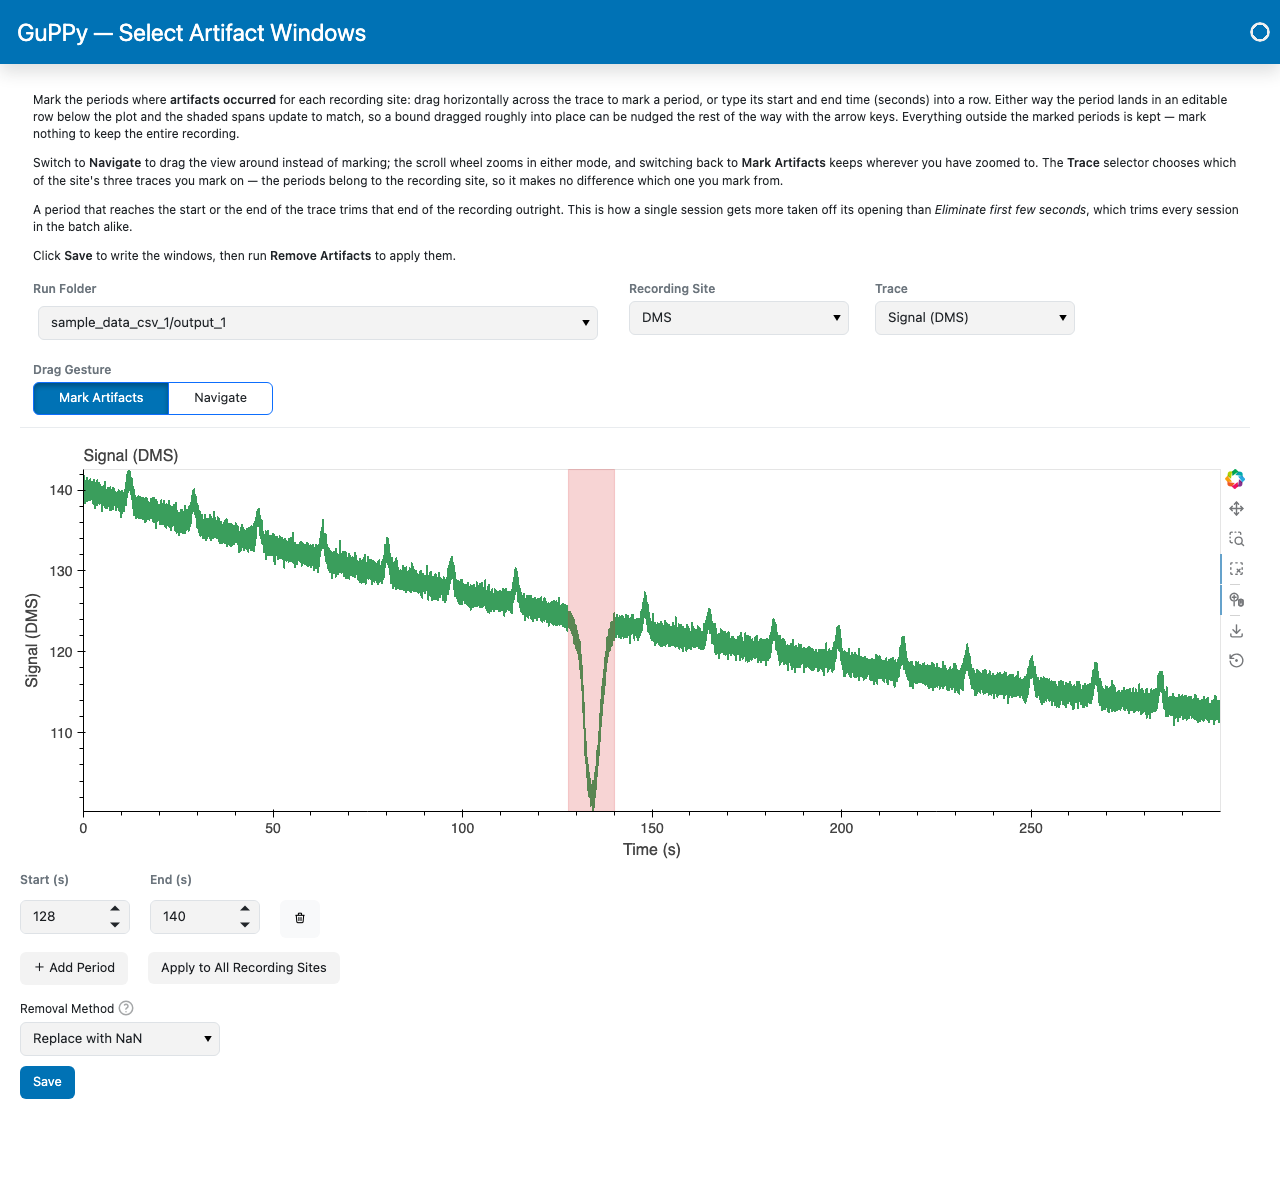
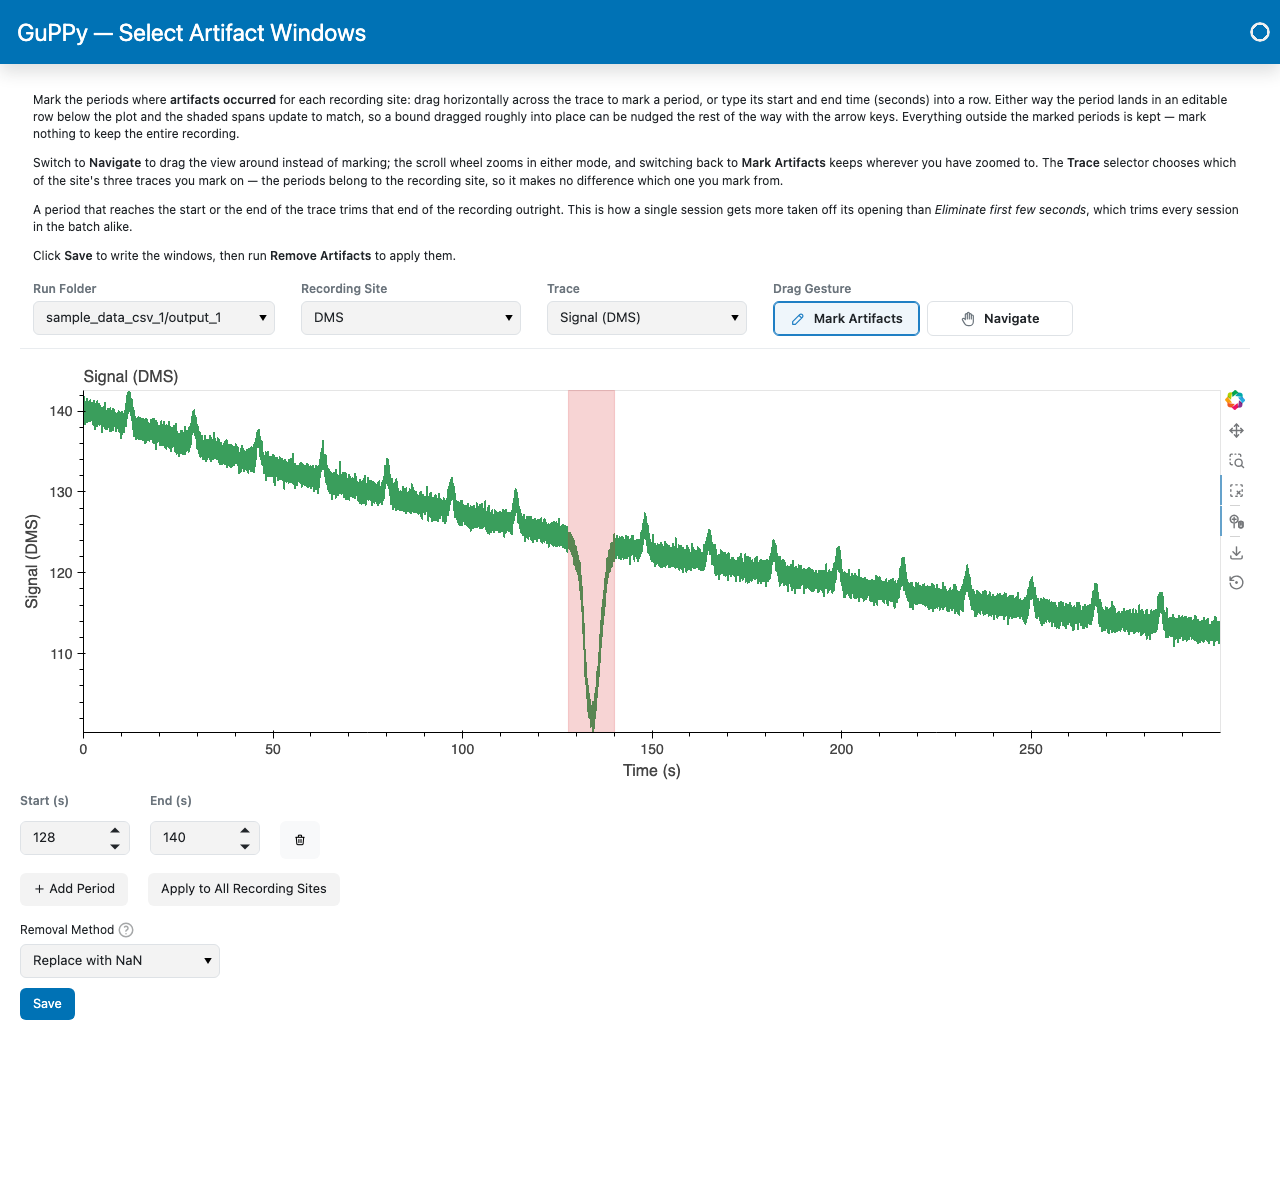
Describe the source tiles in the docs and retake the screenshots

diff --git a/docs/take_screenshots.py b/docs/take_screenshots.py
@@ -41,7 +41,7 @@ from guppy.frontend.frontend_utils import scanPortsAndFind
 from guppy.frontend.group_labeling import GroupLabelingPage
 from guppy.frontend.input_parameters import ParameterForm
 from guppy.frontend.parameterized_plotter import ParameterizedPlotter
-from guppy.frontend.plot_card import RUN_FOLDER_WIDTH, toolbar_field
+from guppy.frontend.plot_card import CONTROL_MARGIN, run_folder_width, toolbar_field
 from guppy.frontend.store_labeling_selector import StoreLabelingSelector
 from guppy.frontend.tonic_epochs import TonicEpochConfig, TonicResultsView
 from guppy.frontend.visualization_dashboard import VisualizationDashboard
@@ -83,7 +83,11 @@ DANDI_DEMO_ASSET = "sub-112-283_ses-FP-PS-2019-06-20T09-32-04_behavior.nwb"
 
 def _run_field(run_label: str) -> pn.Column:
     """The "Run Folder" toolbar field a run-folder page shows, offering the one run."""
-    return toolbar_field("Run Folder", pn.widgets.Select(options=[run_label], width=RUN_FOLDER_WIDTH))
+    return toolbar_field(
+        "Run Folder", pn.widgets.Select(
+            options=[run_label], width=run_folder_width(labels=[run_label]), margin=CONTROL_MARGIN
+        )
+    )
 
 
 def _wait_for_port(port: int, retries: int = 50, delay: float = 0.05) -> None:
@@ -805,14 +809,14 @@ def screenshot_run_name_section(page: Page, *, run_name: str, filename: str) -> 
 
 
 def screenshot_dandi_source_selection(page: Page, tmp_path: Path) -> None:
-    """How-to: the Data Source toggle set to DANDI Archive, and the DANDI panel it reveals.
+    """How-to: the DANDI Archive tile selected, and the DANDI panel it reveals below it.
 
     Assigning ``source_mode`` fires its param watcher synchronously, which swaps the DANDI
     panel in and runs its opening search, so the catalog is populated before the template is
     served (mirroring screenshot_label_stores_configured).
 
-    The roots are pre-selected so Root Folder Selection folds away, which keeps the
-    toggle and the panel it drives in one shot rather than a card's height apart.
+    The roots are pre-selected so Root Folder Selection folds away, which brings the
+    Input Folder Selection card, tiles and panel, to the top of the shot.
     """
     template = build_homepage(
         input_root_folder=str(SAMPLE_DATA_DIR.parent),

diff --git a/docs/reference/parameters.md b/docs/reference/parameters.md
@@ -1,22 +1,8 @@
 # Input parameter reference
 
-Every parameter the GuPPy GUI exposes, organized to match what you see on screen. The page mirrors the homepage top to bottom: the **Data Source** toggle above the cards, then the five cards (**Root Folder Selection**, **Input Folder Selection**, **Output Folder Selection**, **Parameter Selection**, **Group Output Folder Selection**) and the titled sections inside each card. The GUI answers what a single parameter does, through the **?** beside each control; this page is where they are documented together, in relation to each other and in more detail. Each row gives the parameter as it appears in the GUI, a one-line description of what it does, the data type, the default value, and the accepted values or range. Prose paragraphs underneath cover the parameters that need more than a single line. If this is your first time using GuPPy, follow the [Your First Analysis](../tutorials/first_analysis.md) tutorial instead.
+Every parameter the GuPPy GUI exposes, organized to match what you see on screen. The page mirrors the homepage top to bottom: the five cards (**Root Folder Selection**, **Input Folder Selection**, **Output Folder Selection**, **Parameter Selection**, **Group Output Folder Selection**) and the titled sections inside each card. The GUI answers what a single parameter does, through the **?** beside each control; this page is where they are documented together, in relation to each other and in more detail. Each row gives the parameter as it appears in the GUI, a one-line description of what it does, the data type, the default value, and the accepted values or range. Prose paragraphs underneath cover the parameters that need more than a single line. If this is your first time using GuPPy, follow the [Your First Analysis](../tutorials/first_analysis.md) tutorial instead.
 
 The pipeline-step numbering used in this page matches the steps in [Your First Analysis](../tutorials/first_analysis.md): Step 2 (Load the raw data), Step 3 (Preprocess the signal), Step 4 (Compute the PSTH), Step 5 (Visualize the results).
-
----
-
-## Data Source
-
-The toggle above the cards. Decides where the sessions come from.
-
-*Used by: Step 1 (Label Stores) and Step 2 (Load the raw data).*
-
-| Parameter | Description | Type | Default | Options / range |
-|-----------|-------------|------|---------|-----------------|
-| Data Source | Local-folder mode vs DANDI streaming. | radio | `Local folder` | `Local folder`, `DANDI Archive` |
-
-**Data Source** picks between selecting local session folders from the file browser (the common case) and streaming NWB sessions directly from DANDI. It sits above the cards because it changes what two of them show: the session-folder browser is replaced by the DANDI browser, and Root Folder Selection drops the input root folder a streamed session has no use for. See [Analyze data streamed from the DANDI Archive](../how-to/analyze-dandi-data.md) for the DANDI workflow.
 
 ---
 
@@ -40,7 +26,7 @@ Both roots rarely change between analyses, so GuPPy remembers them between launc
 
 **Output root folder is the same as the input root folder** points both roots at one folder, which makes each session mirror onto itself: its run folders are created inside the session folder, so the session travels as one self-contained directory. It also means GuPPy writes into your raw data, which is why it is off by default. Ticking it hides the output-root browser, since there is nothing left to choose.
 
-In DANDI mode the input root folder and the checkbox are hidden, and only the output root folder is asked for: a streamed session has no local raw data to sit under, so its session folder is created inside the output root folder instead.
+Only local sessions use the input root folder. A session streamed from DANDI has no local raw data to sit under, so its session folder is created inside the output root folder instead, or inside the input root folder when the two are set to match.
 
 ---
 
@@ -52,9 +38,12 @@ The second card on the homepage, open by default. Selects the session data the p
 
 | Parameter | Description | Type | Default | Options / range |
 |-----------|-------------|------|---------|-----------------|
+| Data Source | Local-folder mode vs DANDI streaming. | radio | `Local Folder` | `Local Folder`, `DANDI Archive` |
 | (session folders browser) | Session folders to analyze. | list of paths | empty | absolute paths to session directories under the input root folder |
 | (DANDI selector) | DANDI assets to materialize as sessions. | dict | `None` (local mode) | per-session mapping of `dandi://` URIs |
 | Combine Data? | Concatenate two split files into one trace. | bool | `False` | `True`, `False` |
+
+**Data Source** is the pair of tiles at the top of the card. It picks between selecting local session folders from the file browser (the common case) and streaming NWB sessions directly from DANDI, and swaps the card's browser to match. See [Analyze data streamed from the DANDI Archive](../how-to/analyze-dandi-data.md) for the DANDI workflow.
 
 **Session folders** holds the list of session folder paths the pipeline will analyze. Multiple folders are allowed for batch runs, and they do not have to sit side by side: sessions kept in different sub-directories of the input root folder can be analyzed together in a single run, and their differing depths carry straight through into the output tree.
 
@@ -328,7 +317,7 @@ The table is sorted alphabetically by internal name. Each row links to the secti
 | `highAmpFilt` | HAFT | [Transient Detection](#transient-detection) |
 | `input_root_folder` | (input root folder browser) | [Root Folder Selection](#root-folder-selection) |
 | `isosbestic_control` | Isosbestic Control Channel? | [Control Channel Fitting](#control-channel-fitting) |
-| `mode` | Data Source | [Data Source](#data-source) |
+| `mode` | Data Source | [Input Folder Selection](#input-folder-selection) |
 | `moving_window` | Moving Window for Transient Detection (s) | [Transient Detection](#transient-detection) |
 | `nSecPost` | Seconds After 0 | [PSTH Computation](#psth-computation) |
 | `nSecPrev` | Seconds Before 0 | [PSTH Computation](#psth-computation) |

diff --git a/docs/tutorials/first_analysis.md b/docs/tutorials/first_analysis.md
@@ -47,7 +47,7 @@ guppy
 A browser tab opens showing the GuPPy dashboard.
 
 ```{image} ../_static/images/01_homepage.png
-:alt: The GuPPy homepage on first launch: the sidebar of pipeline steps on the left, and on the right the Data Source toggle above an open Root Folder Selection card asking for the input and output root folders
+:alt: The GuPPy homepage on first launch: the sidebar of pipeline steps on the left, and on the right an open Root Folder Selection card asking for the input and output root folders
 :align: center
 ```
 
@@ -62,11 +62,11 @@ Open the **Root Folder Selection** card at the top of the page. It holds the two
 In the **Input Folder Selection** card's **Session folders** browser, navigate to `stubbed_testing_data/csv/sample_data_csv_1/` and click **`>>`** to move that folder into the **Selected files** pane on the right. The browser supports selecting multiple session folders at once for batch analysis; for this tutorial we are running a single session. Every session you select has to sit under the input root folder.
 
 ```{image} ../_static/images/02_data_selection.png
-:alt: The GuPPy homepage with Root Folder Selection folded away and the Input Folder Selection card open below it, its Session folders browser listing sample_data_csv_1 among the sample sessions
+:alt: The GuPPy homepage with Root Folder Selection folded away and the Input Folder Selection card open below it, with the Local Folder tile selected and its Session folders browser listing sample_data_csv_1 among the sample sessions
 :align: center
 ```
 
-The **Data Source** toggle above the cards lets you switch between **Local folder** (the default, file-system browsing) and **DANDI Archive** (streaming NWB sessions directly from DANDI). We are using local files here; see [Analyze data streamed from the DANDI Archive](../how-to/analyze-dandi-data.md) for the DANDI workflow.
+The two tiles at the top of the **Input Folder Selection** card switch between **Local Folder** (the default, file-system browsing) and **DANDI Archive** (streaming NWB sessions directly from DANDI). We are using local files here; see [Analyze data streamed from the DANDI Archive](../how-to/analyze-dandi-data.md) for the DANDI workflow.
 
 ### Set parameters
 

diff --git a/docs/how-to/analyze-dandi-data.md b/docs/how-to/analyze-dandi-data.md
@@ -12,13 +12,13 @@ Streaming a public dandiset needs no DANDI API key. GuPPy reads the dandiset's
 
 ## Choosing a dandiset and assets
 
-Set **Data Source**, above the cards at the top of the page, to **DANDI Archive**. In
-**Input Folder Selection** the local file browser is replaced by the DANDI panel,
-which walks you through three screens: a list of dandisets, one dandiset's page,
+In the **Input Folder Selection** card, click the **DANDI Archive** tile at its top.
+The local file browser is replaced by the DANDI panel, which walks you through three
+screens: a list of dandisets, one dandiset's page,
 and that dandiset's files.
 
 ```{image} ../_static/images/dandi_source_selection.png
-:alt: The Data Source toggle at the top of the page switched from Local folder to DANDI Archive, with the Input Folder Selection card below it showing the DANDI source panel with its search box holding the word photometry, the filter checkbox beneath it, and a table of matching dandisets
+:alt: The Input Folder Selection card with its DANDI Archive tile selected and the DANDI source panel below it with its search box holding the word photometry, the filter checkbox beneath it, and a table of matching dandisets
 :width: 100%
 ```
 
@@ -136,9 +136,11 @@ after the asset filename minus `.nwb`, and writes that session's runs there. The
 recording itself is streamed and never downloaded, so the session folder holds only
 what the analysis writes into it.
 
-DANDI mode asks for no input root folder, and the card hides it: a streamed session
-has no local raw data to sit under. This is why the assets land in the output root —
-it keeps GuPPy from creating folders inside whatever you use for your own recordings.
+DANDI mode does not use the input root folder: a streamed session has no local raw
+data to sit under. This is why the assets land in the output root, which keeps GuPPy
+from creating folders inside whatever you use for your own recordings. The exception is
+**Output root folder is the same as the input root folder**: with it ticked, the two
+roots are one folder, and the session folders are created there.
 
 ## Labeling the streamed stores
 

diff --git a/docs/contributing/architecture.md b/docs/contributing/architecture.md
@@ -99,13 +99,17 @@ A few modules hold the pieces the pages share, so every page is laid out and set
 - `typography.py` sets the type: the bundled Inter and JetBrains Mono fonts, the four text sizes
   and two weights, and `title_case` for labels, buttons and options.
 - `plot_card.py` lays out a plot: a short note, one toolbar of labeled fields (`toolbar_field`)
-  that wraps in a narrow window, then the plot. A tab or page with several plots puts each in a
+  that wraps in a narrow window, then the plot. A Run Folder dropdown takes its width from its
+  longest label (`run_folder_width`). A tab or page with several plots puts each in a
   homepage card (`plot_card`), and one with a single plot uses the same layout with no card
   (`plot_page`). A picker that chooses what a plot shows sits beside it (`plot_with_side_panel`).
 - `side_panel_split.py` is that side panel: a handle between the plot and the panel drags to
   resize the panel and hides it with its button.
 - `row_controls.py` holds the column headings and delete button of the editable tables, such as
   the artifact windows, the tonic epochs and the custom events.
+- `tile_toggle.py` draws a choice between a few options as tiles, each with an icon and the color
+  it takes when selected: full tiles with a one-line description for the homepage's Data Source,
+  and compact one-line tiles at dropdown height for a toolbar, such as the Drag Gesture toggle.
 
 The folder and run selectors start in the user's home directory. Choosing an input root folder
 re-points the session selector into it, which is how the testing API and the screenshot scripts

diff --git a/changelog_entries/585.improvement.md b/changelog_entries/585.improvement.md
@@ -1,1 +1,1 @@
-The homepage Data Source toggle is now one outlined switch labelled "Local folder" and "DANDI Archive", in place of a blue button beside a pink one.
+The Data Source toggle is now a pair of Local Folder and DANDI Archive tiles at the top of the Input Folder Selection card, the Drag Gesture toggle uses matching compact tiles, and the Run Folder dropdown fits its labels.
